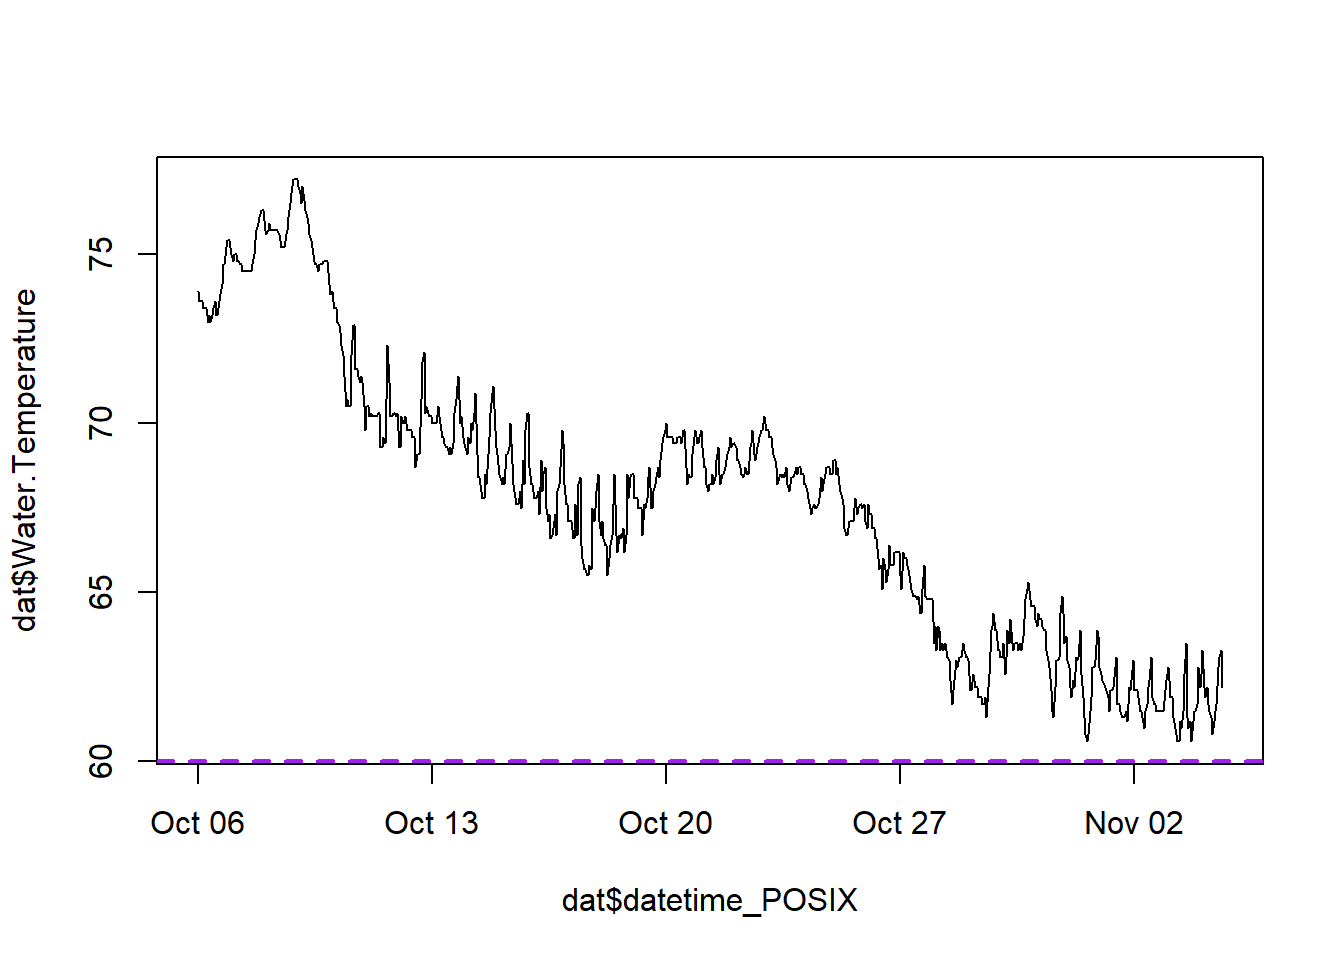
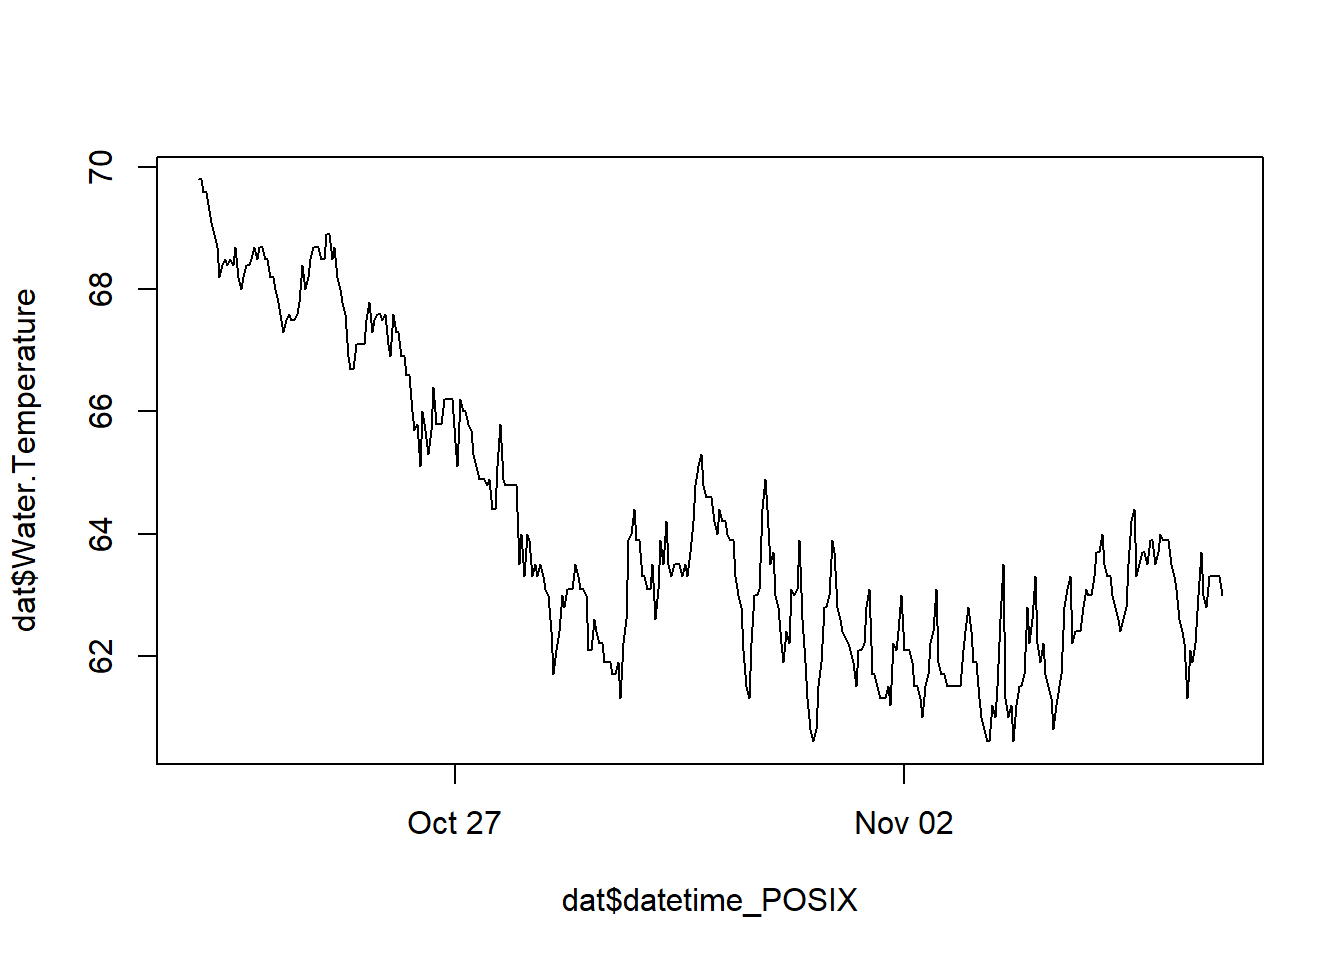
update

diff --git a/index.html b/index.html
@@ -6,7 +6,7 @@
 
 <meta name="viewport" content="width=device-width, initial-scale=1.0, user-scalable=yes">
 
-<meta name="dcterms.date" content="2025-11-05">
+<meta name="dcterms.date" content="2025-11-07">
 
 <title>water temp at 8656483</title>
 <style>
@@ -91,7 +91,7 @@ pre > code.sourceCode > span > a:first-child::before { text-decoration: underlin
     <div>
     <div class="quarto-title-meta-heading">Published</div>
     <div class="quarto-title-meta-contents">
-      <p class="date">November 5, 2025</p>
+      <p class="date">November 7, 2025</p>
     </div>
   </div>
   
@@ -105,6 +105,12 @@ pre > code.sourceCode > span > a:first-child::before { text-decoration: underlin
 
 <section id="get-water-temp-at-the-dml-noaa-station-8656483" class="level1">
 <h1>get water temp at the dml noaa station 8656483</h1>
+<section id="changelog" class="level2">
+<h2 class="anchored" data-anchor-id="changelog">changelog</h2>
+<ul>
+<li>2025-11-07 reduced to 15 day history for carlity</li>
+</ul>
+</section>
 <section id="set-up-api-string" class="level2">
 <h2 class="anchored" data-anchor-id="set-up-api-string">set up api string</h2>
 <div class="cell">
@@ -134,9 +140,9 @@ pre > code.sourceCode > span > a:first-child::before { text-decoration: underlin
 <span id="cb1-22"><a href="#cb1-22" aria-hidden="true" tabindex="-1"></a>PRODUCT <span class="ot">&lt;-</span> <span class="st">"water_temperature"</span></span>
 <span id="cb1-23"><a href="#cb1-23" aria-hidden="true" tabindex="-1"></a>APPLICATION <span class="ot">&lt;-</span> <span class="st">"NOS.COOPS.TAC.PHYSOCEAN"</span></span>
 <span id="cb1-24"><a href="#cb1-24" aria-hidden="true" tabindex="-1"></a></span>
-<span id="cb1-25"><a href="#cb1-25" aria-hidden="true" tabindex="-1"></a><span class="co"># grab the current date to get the last 30 days</span></span>
+<span id="cb1-25"><a href="#cb1-25" aria-hidden="true" tabindex="-1"></a><span class="co"># grab the current date to get the last 15 days</span></span>
 <span id="cb1-26"><a href="#cb1-26" aria-hidden="true" tabindex="-1"></a>curdate <span class="ot">&lt;-</span> <span class="fu">Sys.Date</span>()</span>
-<span id="cb1-27"><a href="#cb1-27" aria-hidden="true" tabindex="-1"></a>dateback30 <span class="ot">&lt;-</span> curdate <span class="sc">-</span> <span class="dv">30</span></span>
+<span id="cb1-27"><a href="#cb1-27" aria-hidden="true" tabindex="-1"></a>dateback30 <span class="ot">&lt;-</span> curdate <span class="sc">-</span> <span class="dv">15</span></span>
 <span id="cb1-28"><a href="#cb1-28" aria-hidden="true" tabindex="-1"></a></span>
 <span id="cb1-29"><a href="#cb1-29" aria-hidden="true" tabindex="-1"></a><span class="co"># format the begin and end dates</span></span>
 <span id="cb1-30"><a href="#cb1-30" aria-hidden="true" tabindex="-1"></a>BEGINDATE <span class="ot">&lt;-</span> <span class="fu">format</span>(dateback30, <span class="st">"%Y%m%d"</span>)</span>
